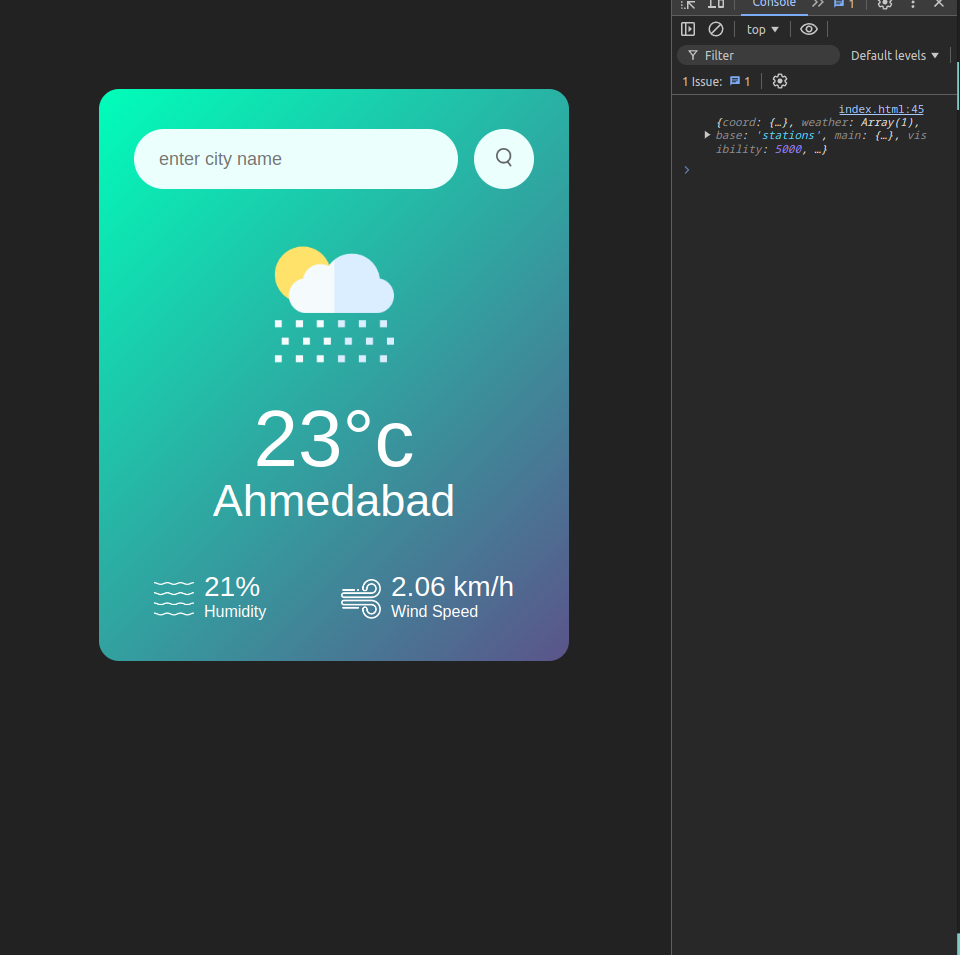
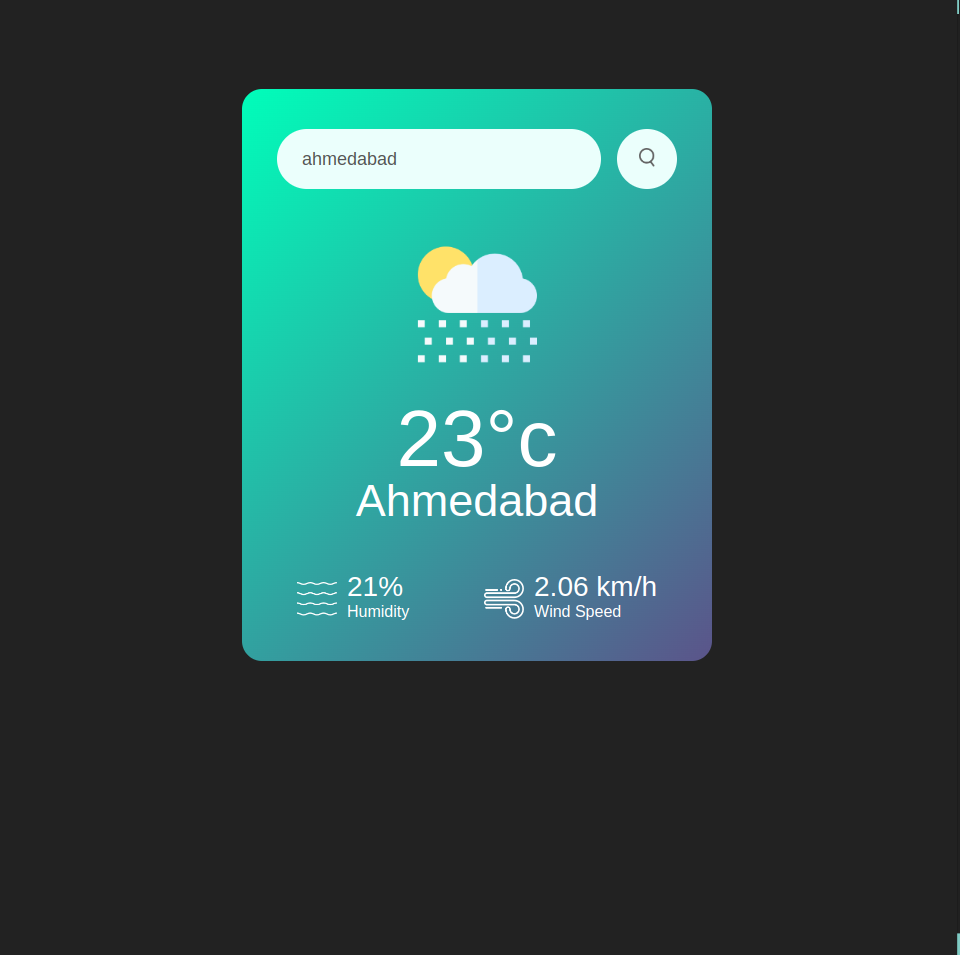
code for getting weather info by searching city name

Changed region(s): [[0.0938, 0.0, 1.0, 0.6984], [0.2812, 0.2429, 0.4062, 0.3948], [0.4375, 0.2429, 0.5625, 0.3948]]

diff --git a/index.html b/index.html
@@ -36,10 +36,15 @@
     </div>
     <script >
       const apiKey = "823a6d9920a75a3086765a7e936d8b7f";
-      const apiUrl = "https://api.openweathermap.org/data/2.5/weather?units=metric&q=ahmedabad";
+      const apiUrl = "https://api.openweathermap.org/data/2.5/weather?units=metric&q=";
 
-      async function checkWeather(){
-        const response = await fetch(apiUrl + `&appid=${apiKey}`);
+      const searchBox = document.querySelector(".search input");
+
+      const searchBtn = document.querySelector(".search button");
+
+
+      async function checkWeather(city){
+        const response = await fetch(apiUrl + city + `&appid=${apiKey}`);
         var data = await response.json();
 
         console.log(data);
@@ -49,6 +54,9 @@
         document.querySelector(".wind").innerHTML = data.wind.speed + ' km/h';
       }
 
+      searchBtn.addEventListener("click",()=>{
+        checkWeather(searchBox.value);
+      })
       checkWeather();
     </script>
   </body>
